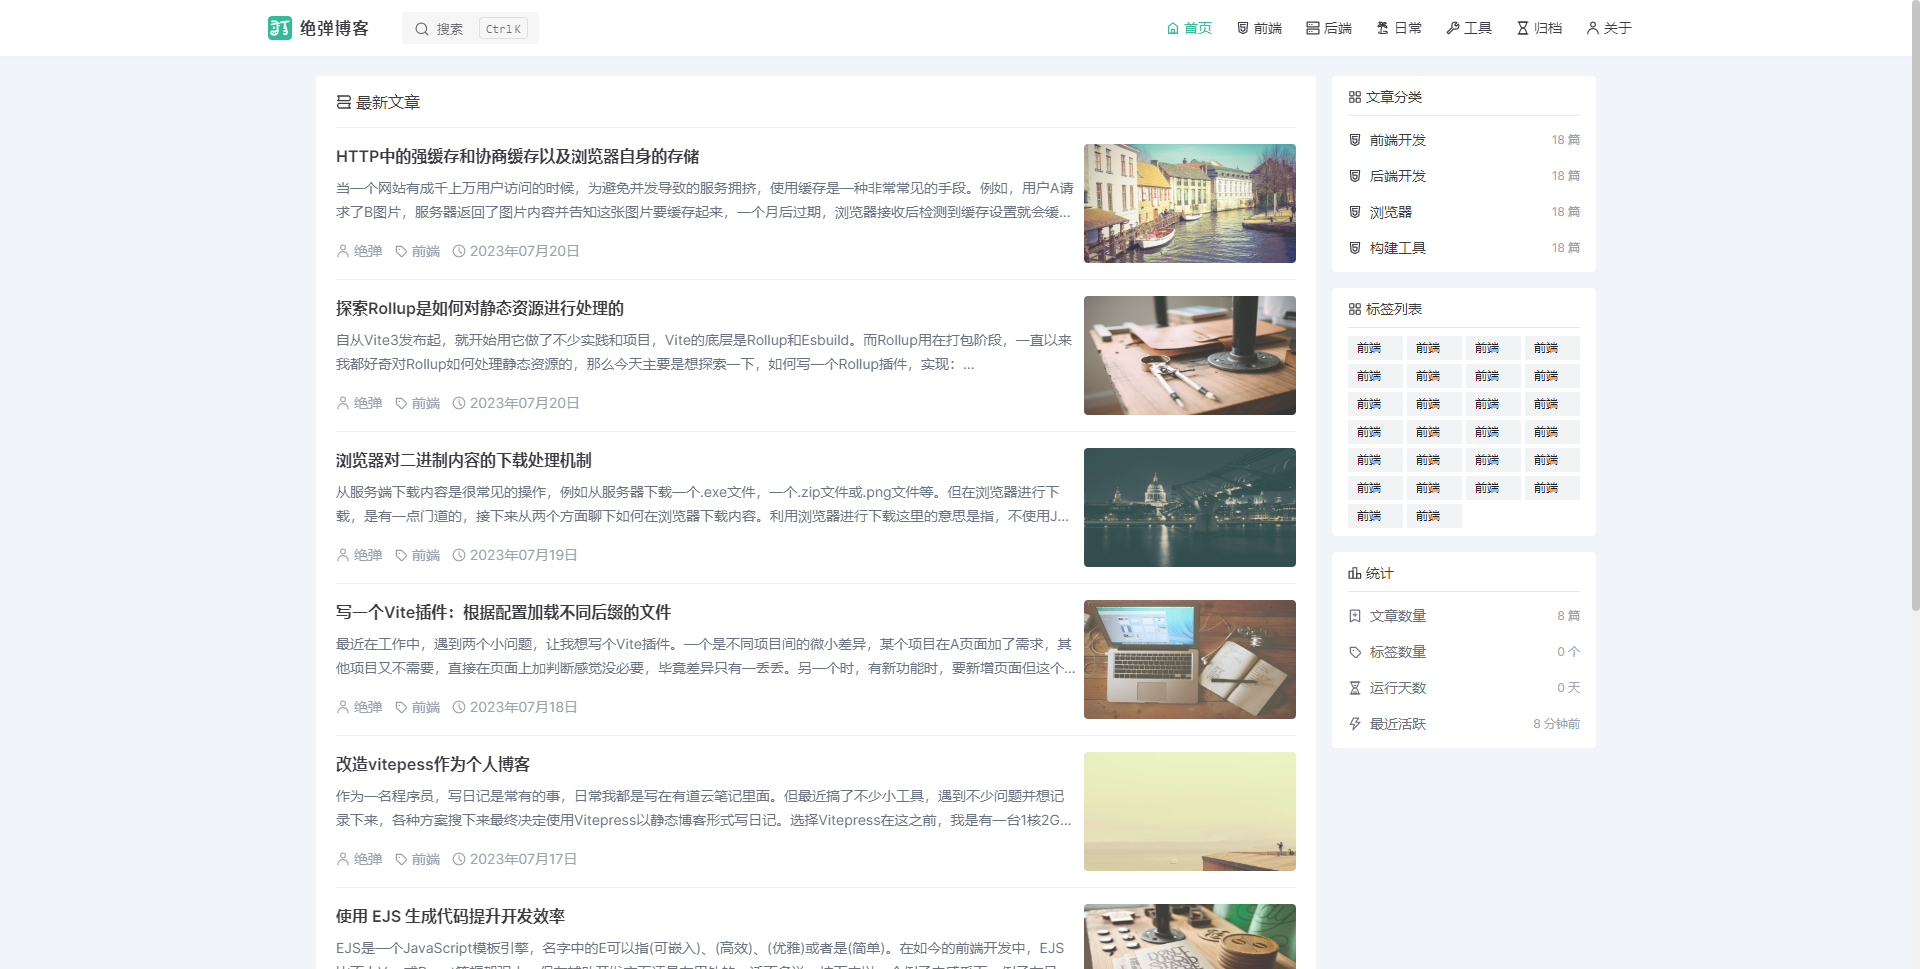
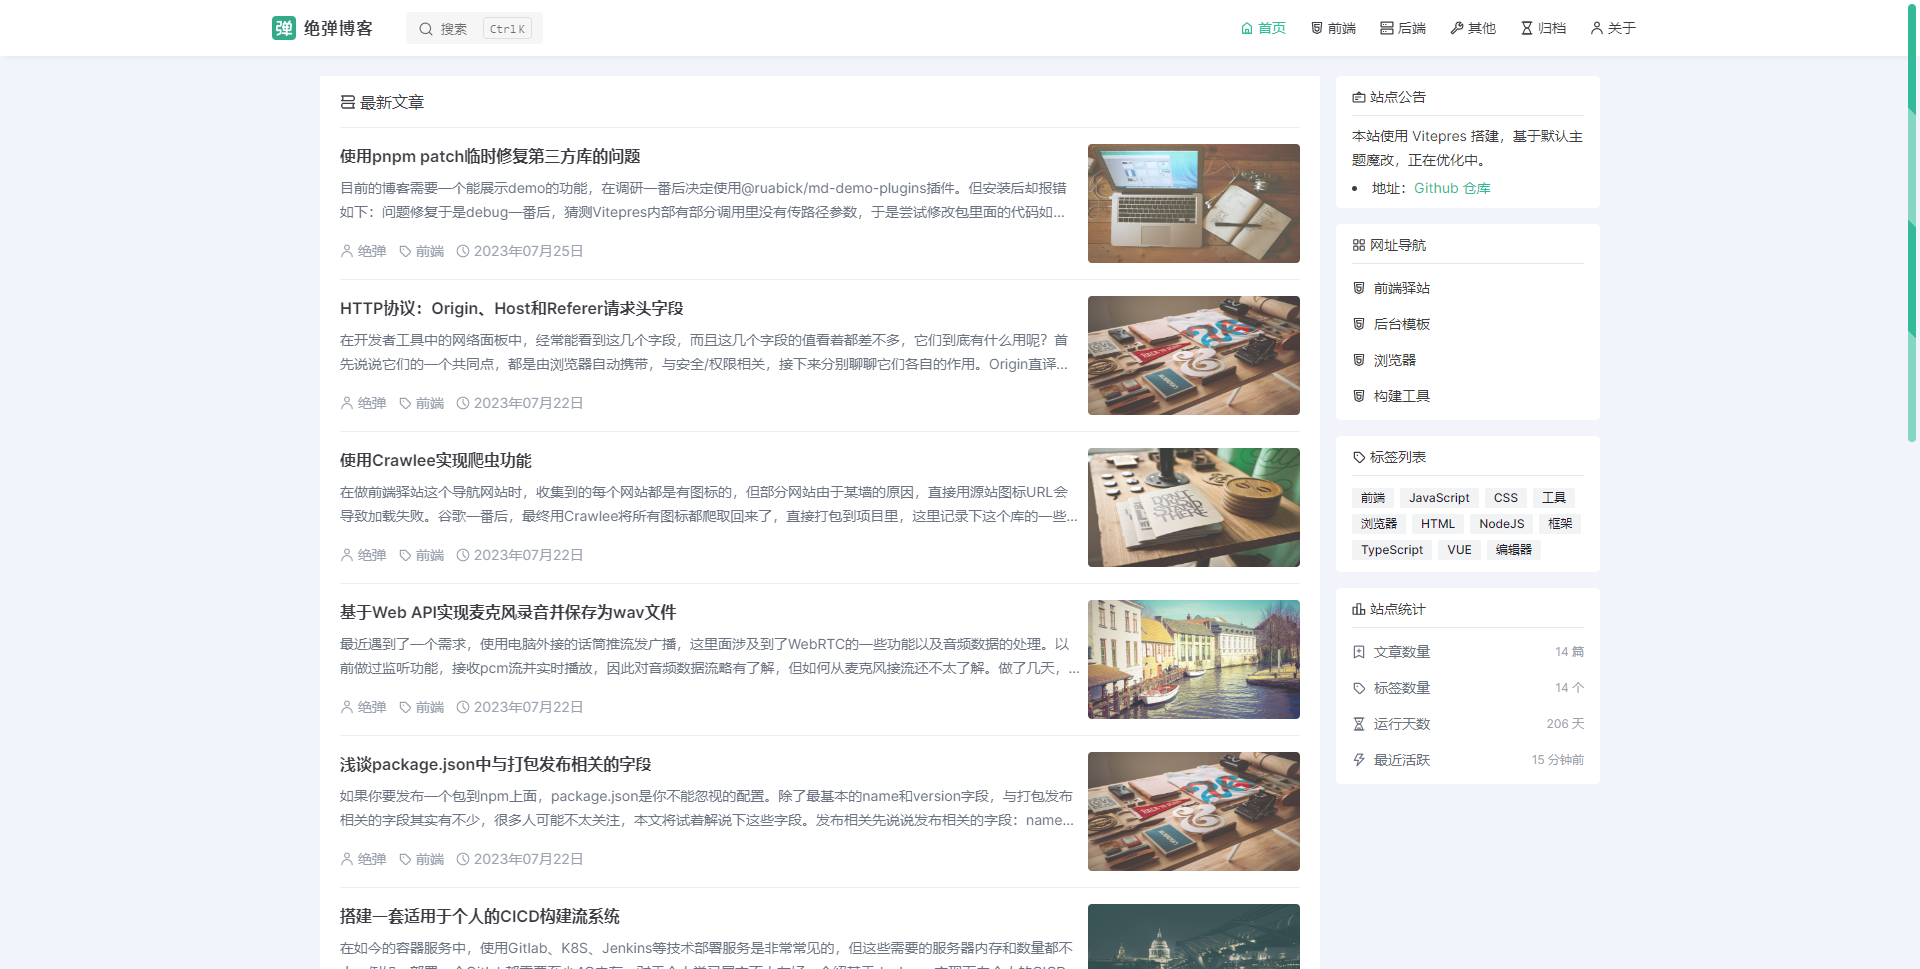
feat: 添加预览图到README

diff --git a/.vitepress/theme/components/DocHome.vue b/.vitepress/theme/components/DocHome.vue
@@ -55,7 +55,11 @@
         </div>
         <div class="grid gap-1 py-2">
           本站使用 Vitepres 搭建，基于默认主题魔改，正在优化中。
-          <li>地址：<a href="https://github.com/juetan/juetan.github.io" target="_blank" class="text-[#3b9]">Github 仓库</a></li>
+          <li>
+            地址：<a href="https://github.com/juetan/juetan.github.io" target="_blank" class="text-[#3b9]"
+              >Github 仓库</a
+            >
+          </li>
         </div>
       </div>
       <div class="bg-white rounded px-4 mt-4">
@@ -117,12 +121,25 @@
         </div>
         <div class="flex gap-1.5 flex-wrap py-3">
           <Tag
-            v-for="i in 26"
+            v-for="i in [
+              '前端',
+              'JavaScript',
+              'CSS',
+              '工具',
+              '浏览器',
+              'HTML',
+              'NodeJS',
+              '框架',
+              'TypeScript',
+              'VUE',
+              '编辑器',
+            ]"
             :key="i"
-            class="bg-slate-50 hover:bg-[var(--vp-c-brand-1)] hover:text-[var(--vp-c-brand)]"
-            :color="colors[Math.floor(Math.random() * colors.length)]"
+            class="hover:text-[var(--vp-c-brand)]"
+
+            size="small"
           >
-            前端
+            {{ i }}
           </Tag>
         </div>
       </div>

diff --git a/.vitepress/config.ts b/.vitepress/config.ts
@@ -184,12 +184,7 @@ export default defineConfig({
         link: '/backend',
       },
       {
-        text: '日常',
-        icon: 'i-icon-park-outline-coconut-tree',
-        link: '/daily',
-      },
-      {
-        text: '工具',
+        text: '其他',
         icon: 'i-icon-park-outline-tool',
         link: '/tools',
       },

diff --git a/src/index.md b/src/index.md
@@ -1,6 +1,6 @@
 ---
 layout: page
-title: 如果你的地图是一张白纸，所以即使想决定目的地，也不知道路在哪里
+title: 首页
 ---
 <script lang="ts" setup>
 import DocHome from '@app/theme/components/DocHome.vue'

diff --git a/README.md b/README.md
@@ -1,2 +1,7 @@
 A vitepress based blog, for daily record.
 
+- link: https://juetan.cn.
+
+## Preview
+
+![](./.github/home.png)
